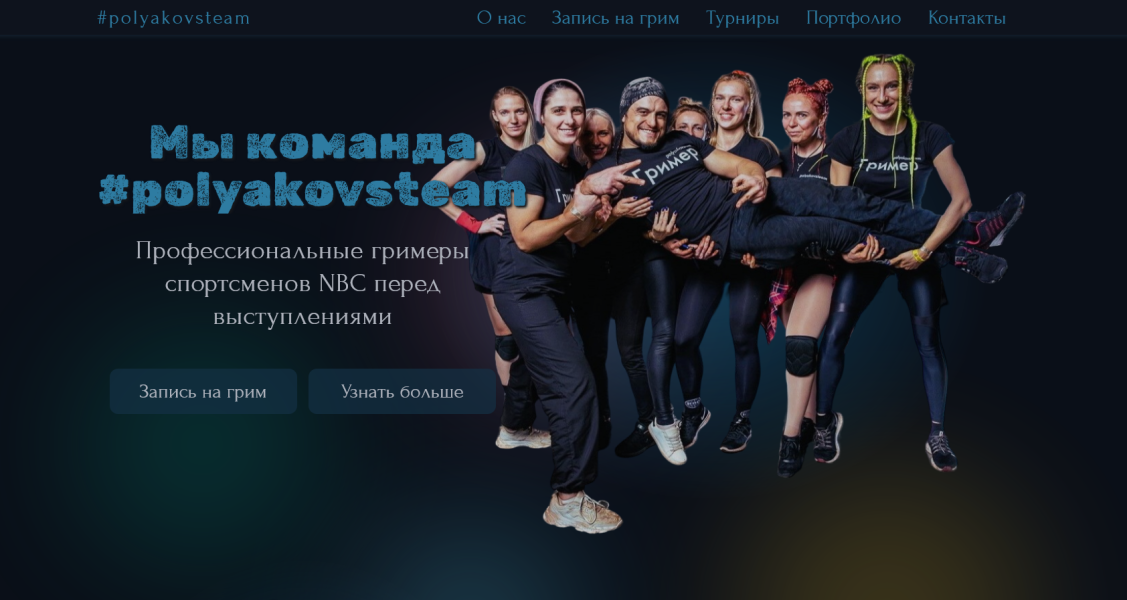
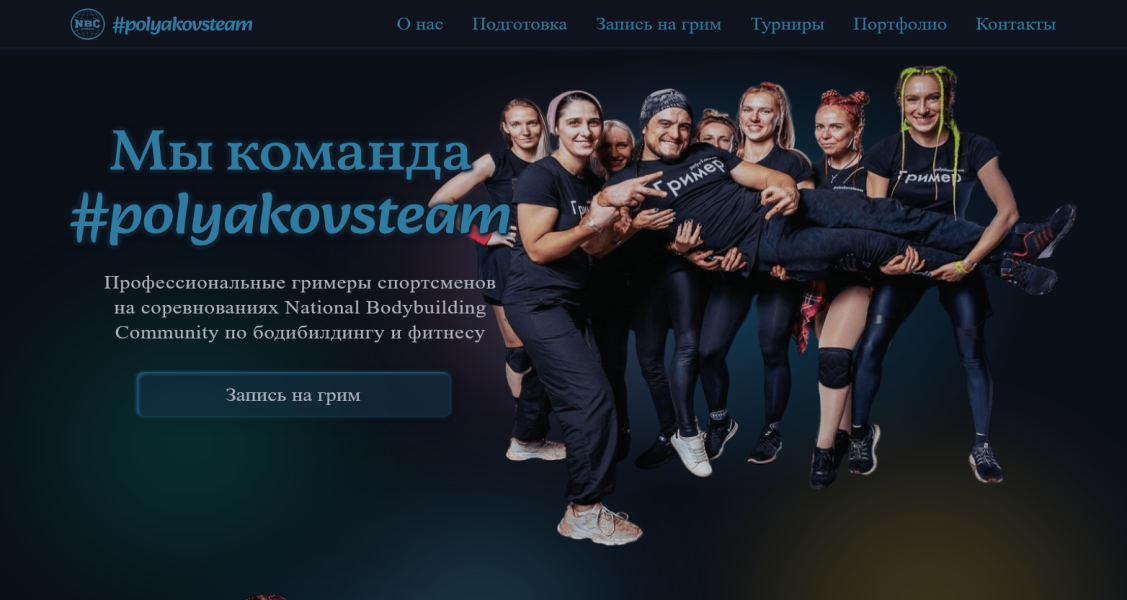
изменена картинка про Грим и описание проекта

diff --git a/components/works.vue b/components/works.vue
@@ -160,7 +160,7 @@
             git:'https://github.com/AnigalHub/Greasepaint',
             show:'/greasepaint',
             technology:'Vue',
-            about:'Сайт о команде профессиональных гримеров спортсменов NBC перед выступлениями.'
+            about:'Сайт о профессиональных гримерах спортсменов на соревнованиях NBC по бодибилдингу и фитнесу.'
           },
           {
             src:'/home_calendar.png',
